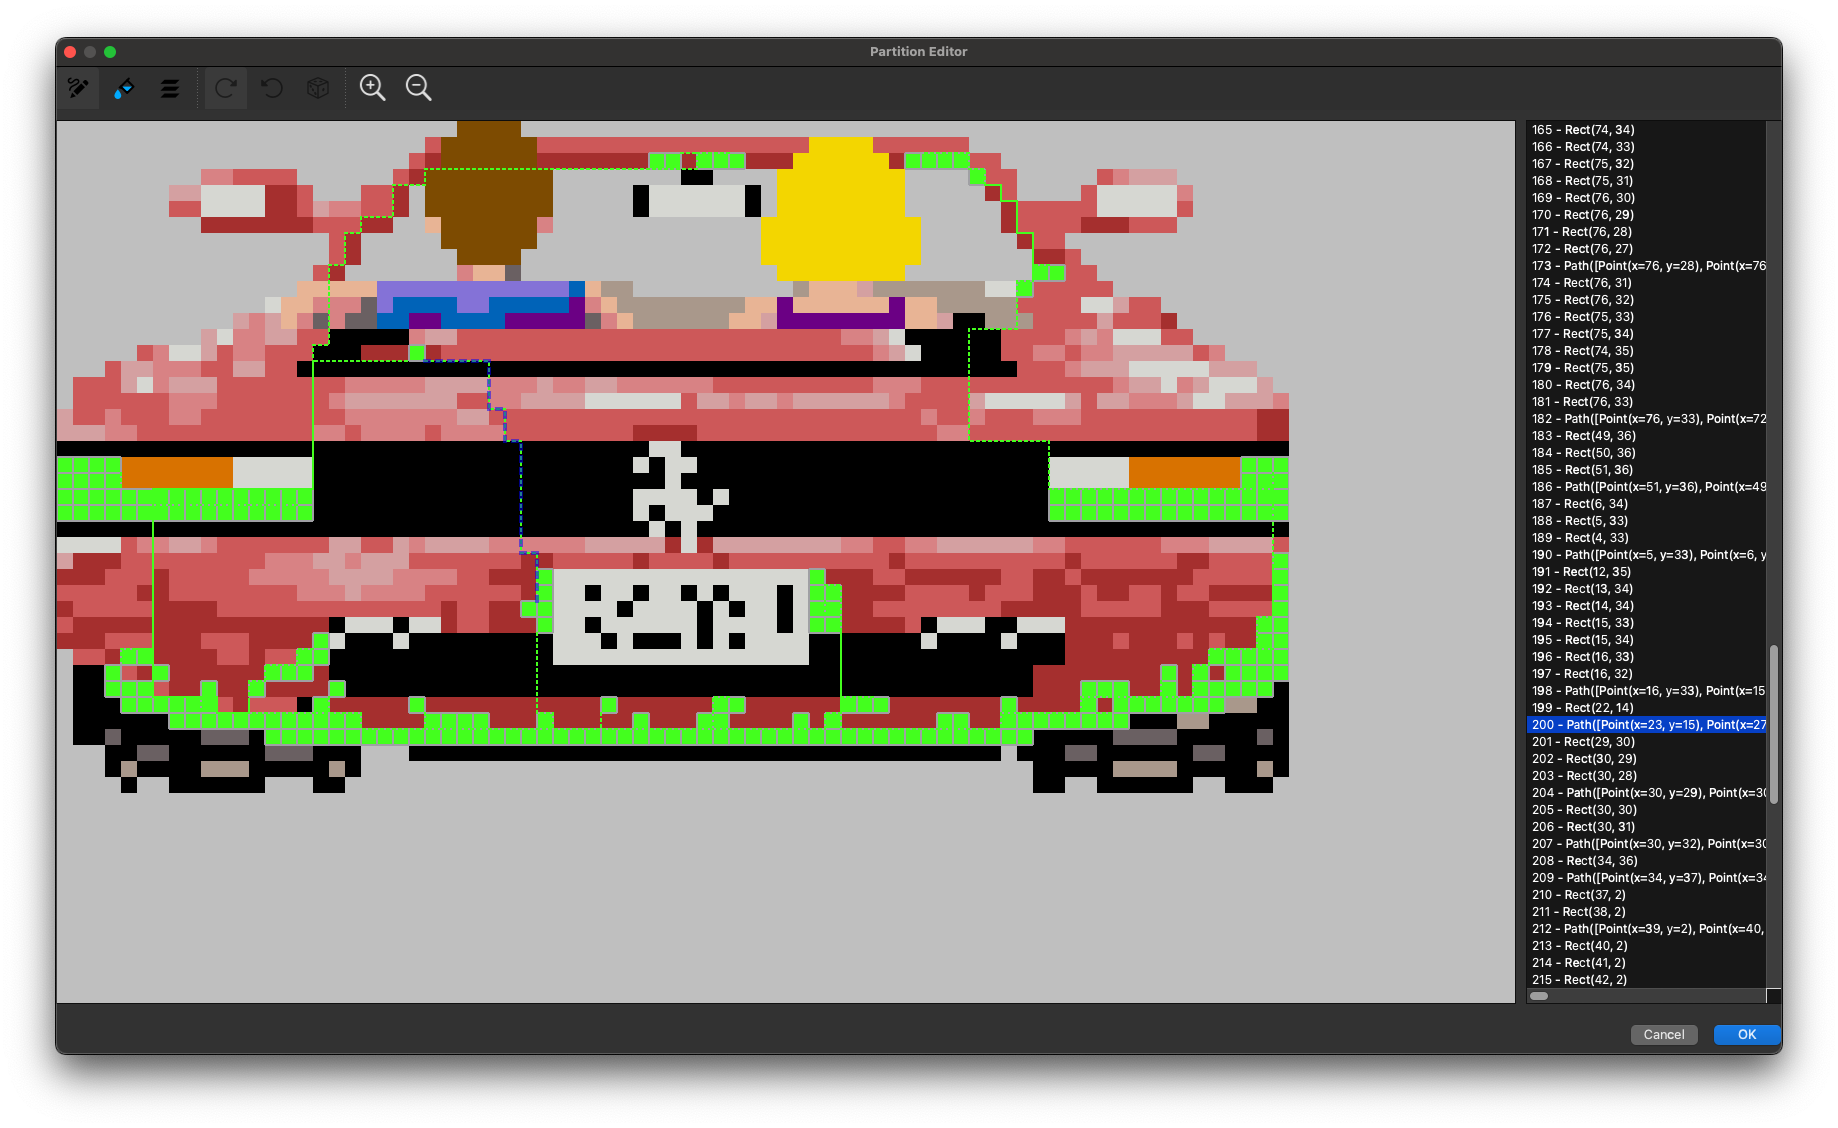
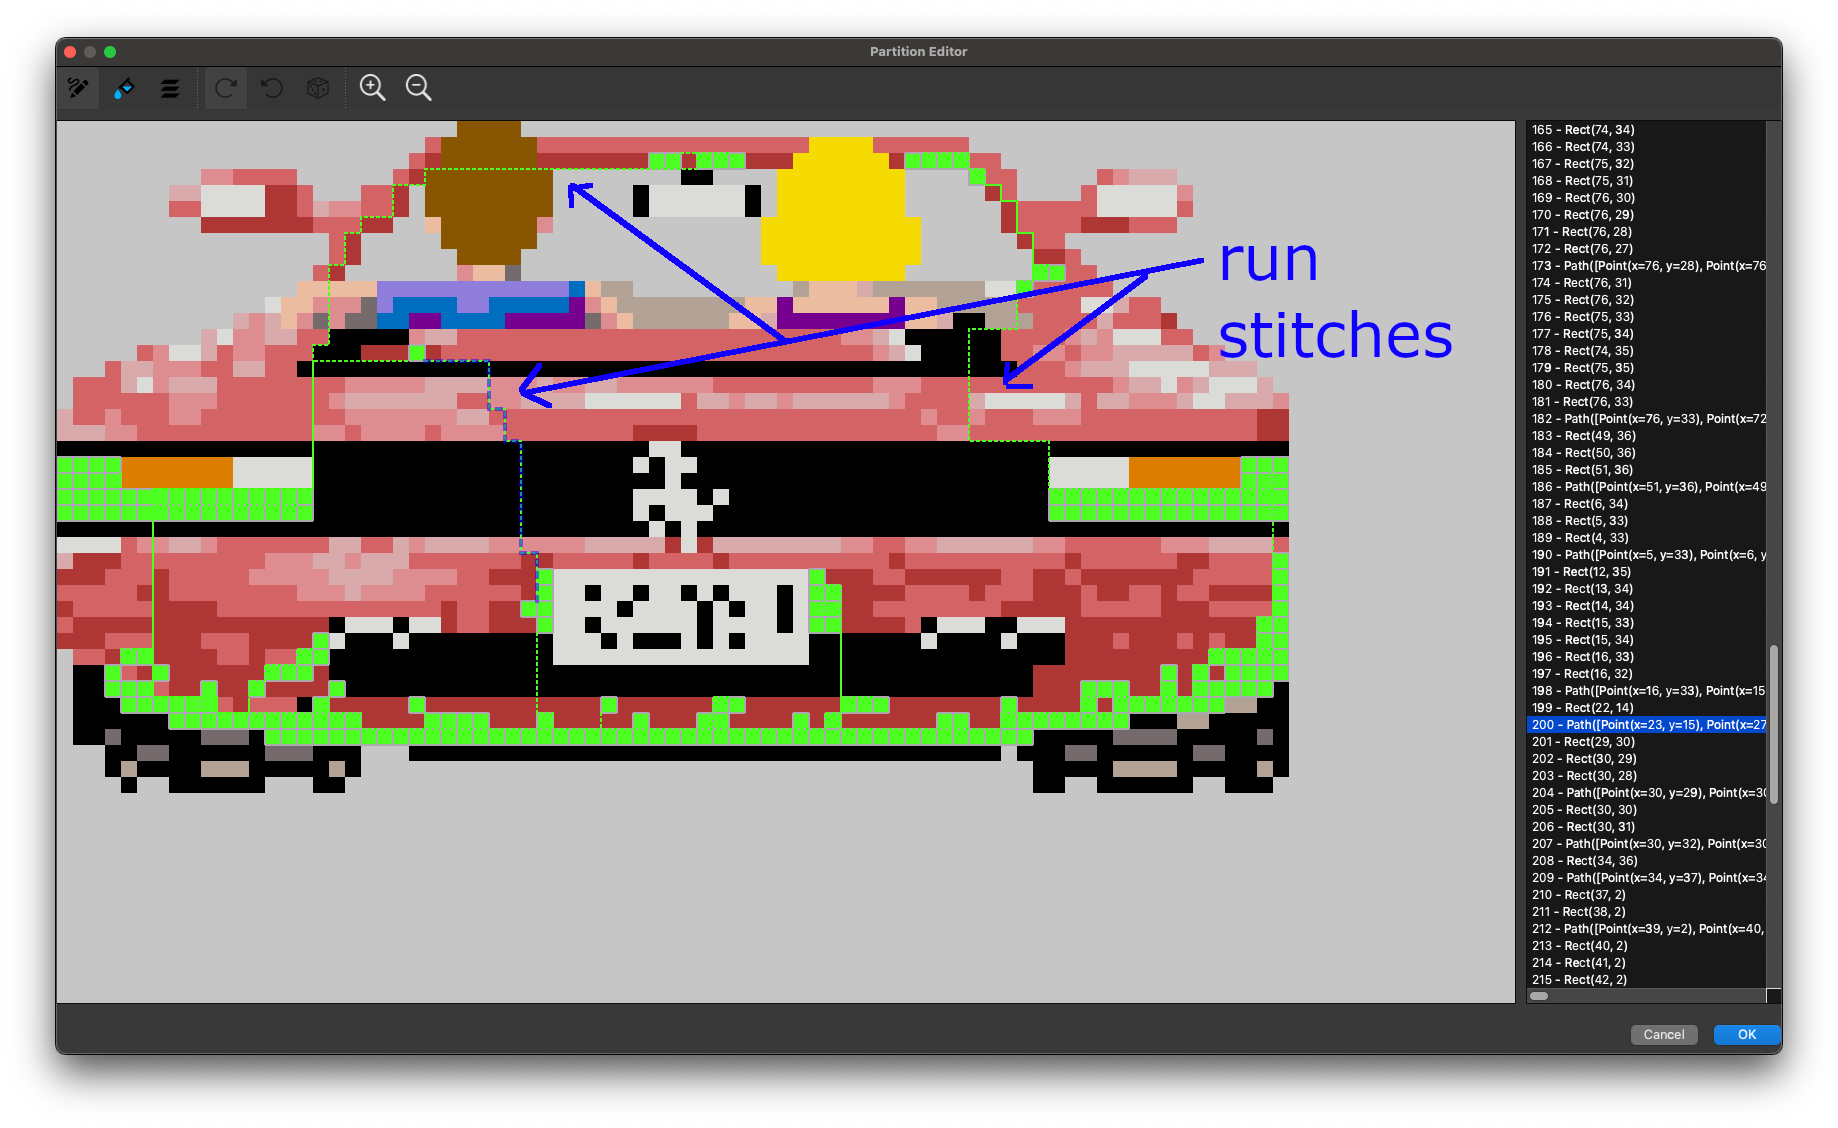
outrun WIP

diff --git a/content/posts/embroidery-outrun.md b/content/posts/embroidery-outrun.md
@@ -10,3 +10,10 @@ tag:
 ---
 
 ![outrun](/images/embroidery-outrun-original.jpg)
+
+The challenge with the Outrun sprite is that it has multiple colors, but many islands of a only a few pixels,
+so it requires multiple jump-stitches, or so I thought so.
+
+To prevent the jump-stitches I decided to connect the different "islands" with a run-stitch.
+
+![outrun](/images/embroidery-outrun-pixem.png)
